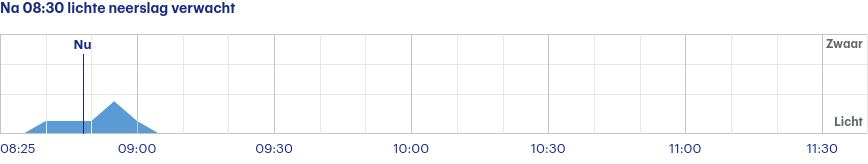
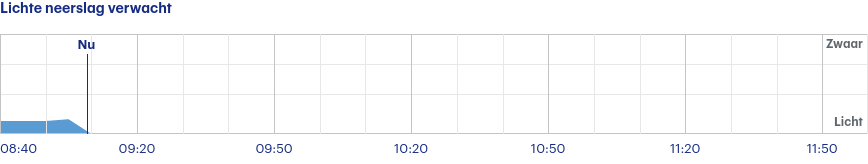
Latest scraping buienradar: Mon Jul  3 07:00:28 UTC 2023

diff --git a/scrapes/buienradar/buienradar-jette-3-uur.md b/scrapes/buienradar/buienradar-jette-3-uur.md
@@ -1,4 +1,4 @@
-Na 08:30 lichte neerslag verwacht
+Lichte neerslag verwacht
 
 ![](buienradar-jette-3-uur.png)
 
